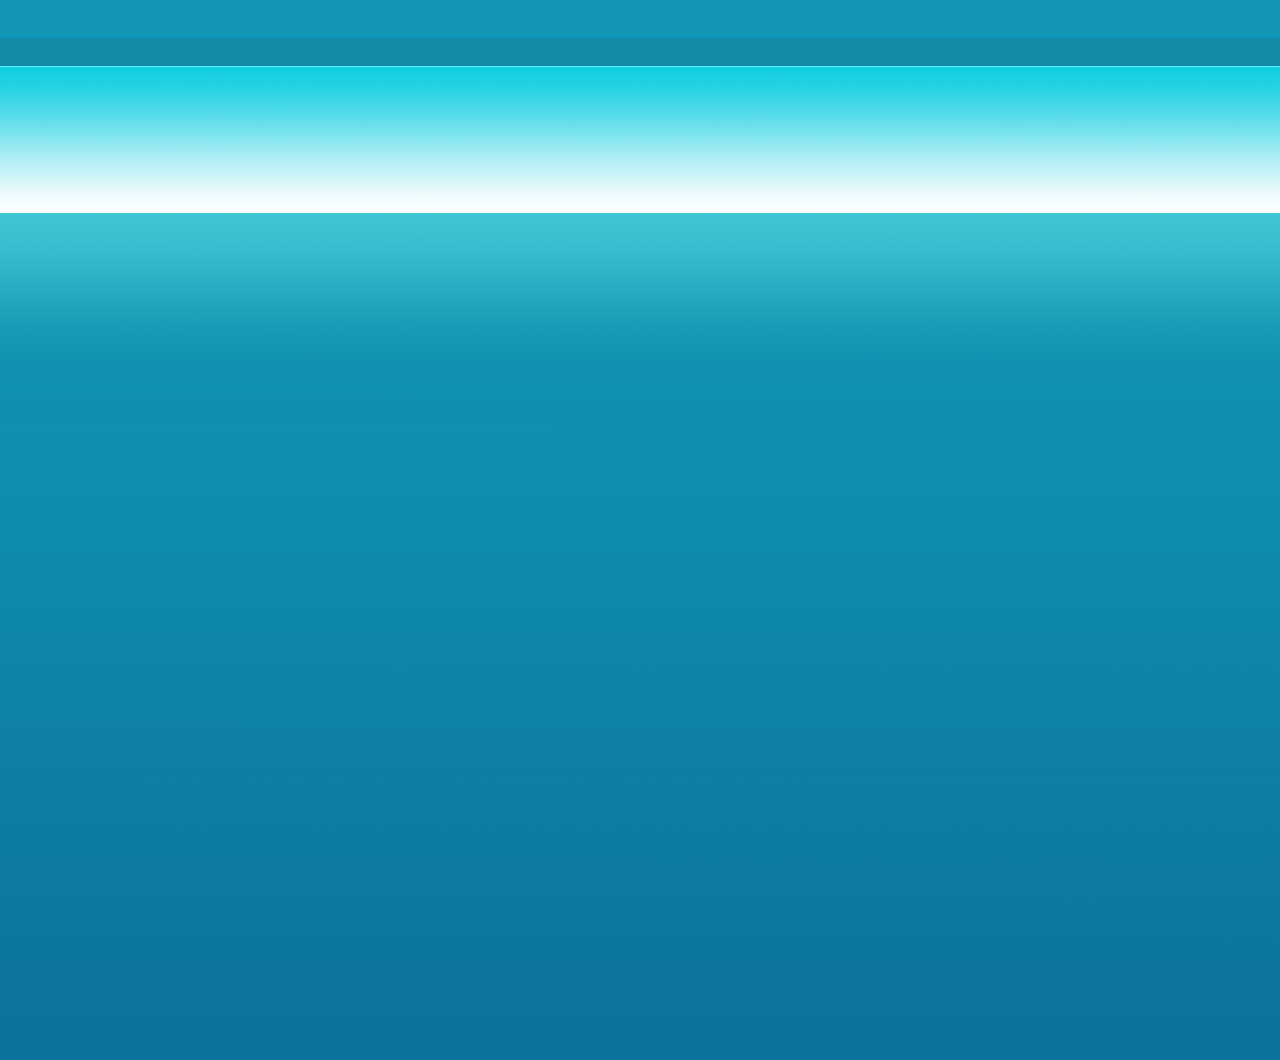
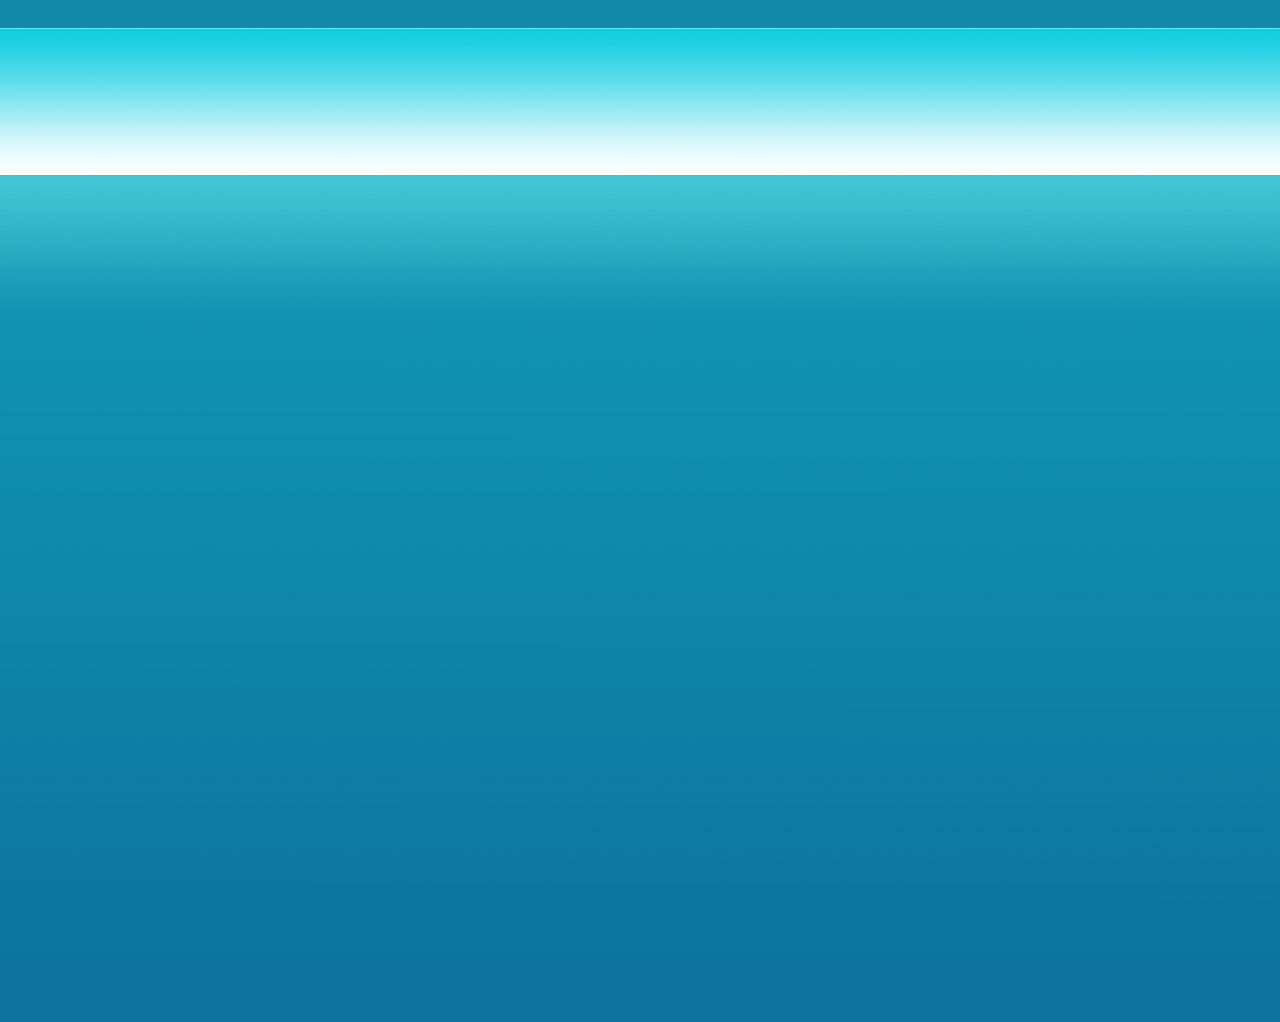
change menu, background, content

Changed region(s): [[0.0, 0.0303, 1.0, 0.2123]]

diff --git a/css/style.css b/css/style.css
@@ -1,15 +1,16 @@
 body {
-    padding-top: 38px;
-    height: 1060px;
+    /*padding-top: 38px;*/
+    height: 1022px;
     font-family: Tahoma, Arial, sans-serif;
     background-image: url(../img/background.jpg);
-    background-attachment: fixed;
+    /*background-attachment: fixed;*/
+
 }
 
 .wrapper {
     background-color: #fff;
-    height: 1025px;
-    margin-left: 140px;
+    height: 988px;
+    margin: 0 auto;
     max-width: 1000px;
     box-shadow: 0px 4px 15px 1px rgba(0,0,0,0.75);
 }
@@ -51,13 +52,6 @@ header {
 
 .countries {
     padding-top: 37px;
-}
-
-ul {
-    display: block;
-    margin: 0;
-    padding: 0;
-    list-style: none;
 }
 
 li {
@@ -112,10 +106,11 @@ li {
     background: #373737;
     background: linear-gradient(to top, #373737, #313131);
     height: 28px;
-    border-bottom: 1px solid black;
-    border-top: 1px solid white;
+    border-bottom: 2px solid black;
     -webkit-box-shadow: 0px 0px 11px 0px rgba(0,0,0,0.80);
     -moz-box-shadow: 0px 0px 11px 0px rgba(0,0,0,0.80);
+    text-align: center;
+
 }
 ul {
     display: block;
@@ -129,61 +124,61 @@ ul:after {
     clear: both;
     float: none;
 }
-ul.menu > li {
+.menu li {
+    /*text-align: center;*/
+    display: block;
+}
+ul.sub_menu > li {
     float: left;
     position: relative;
 }
-ul.menu li:hover {
+ul.sub_menu li:hover,
+ul.sub_menu li:focus {
     background-color: none;
-
 }
-ul.menu > li > a {
+ul.sub_menu > li > a {
     display: block;
+    padding: 5px 0px 5px 0;
+    color: white;
     font-size: 14px;
     font-weight: 500;
     margin-left: 60px;
-    padding: 5px 0 5px 0;
     vertical-align: middle;
     text-decoration: none;
-    color: white;
-}
-ul.menu > li > a:hover {
-    color: #c1c1c1;
 }
 ul.drop_menu {
     display: none;
     position: absolute;
+    left: 25px;;
     width: 150px;
-    top: 29px;
-    left: 50px;
-    background-color: white;
     -webkit-box-shadow: 1px 5px 11px -2px rgba(0,0,0,0.75);
     -moz-box-shadow: 1px 5px 11px -2px rgba(0,0,0,0.75);
     box-shadow: 1px 5px 11px -2px rgba(0,0,0,0.75);
+
 }
+ul.drop_menu > li:first-child {
+    margin-top: 5px;
+}
+ul.sub_menu li:hover {
+    background-color: none;
+}
+
 ul.drop_menu > li {
     display: block;
 }
 ul.drop_menu > li > a {
     display: block;
-    font-size: 14px;
-    font-weight: 500;
     padding: 8px;
     color: white;
     background-color: #303030;
+    font-size: 14px;
+    font-weight: 500;
     text-decoration: none;
 }
-ul.drop_menu > li > a:hover {
-    text-decoration: underline;
-}
-
-ul.menu > li:hover > ul.drop_menu {
+ul.sub_menu > li:hover > ul.drop_menu {
     display: block;
 }
 
-.menu i {
-    font-size: 10px;
-}
 
 h3 {
     font-size: 18px;
@@ -192,10 +187,15 @@ h3 {
 }
 
 p {
-    font-size: 12px;
+    font-size: 14px;
     color: #424c43;
 }
-
+.content {
+    width: 1000px;
+    height: 545px;
+    overflow: hidden;
+    border-bottom: 3px solid black;
+}
 .content p {
     padding: 0 25px 15px 15px;
     line-height: 22px;
@@ -203,42 +203,41 @@ p {
 
 .content h3 {
     padding: 5px 0 5px 0;
+    font-weight: bold;
 }
 
 .info {
+    width: 209px;
     float: left;
+    padding-bottom: 20000px;
+    margin-bottom: -20000px;
     background-color: #edeef0;
-    width: 205px;
     border-right: 1px solid #c7cacf;
-    height: 580px;
 }
-
-.news {
-    float: right;
-    background-color: #edeef0;
-    width: 205px;
-    border-left: 1px solid #c7cacf;
-    height: 580px;
-}
-
 .article {
-    padding: 1px 20px 20px 20px;
+    width: 580px;
     float: left;
-}
+    padding-bottom: 20000px;
+    margin-bottom: -20000px;
+    background-color: #fff;
 
-.content:after {
-    content: ' ';
-    clear: both;
-    display: block;
-    height: 0;
-    visibility: hidden;
+}
+.news {
+    width: 209px;
+    float: left;
+    padding-bottom: 20000px;
+    margin-bottom: -20000px;
+    background-color: #edeef0;
+    border-left: 1px solid #c7cacf;
 }
 
 footer {
-    padding-top: 8px;
+    padding-top: 13px;
 }
 
+
 footer p {
+    margin: 0 auto;
     font-size: 12px;
     font-weight: 500;
     color: white;

diff --git a/index.html b/index.html
@@ -35,7 +35,7 @@
         <img src="img/photo.jpg" alt="photo">
     </div>
     <div class="menu">
-        <ul class="menu">
+        <ul class="sub_menu">
             <li><a href="#">Главная</a></li>
             <li><a href="#">Путешествие <i>&#9660;</i></a>
                 <ul class="drop_menu">
@@ -87,14 +87,13 @@
                 dolor sit amet Lorem ipsum dolor sit amet Lorem ipsum dolor
                 sit amet Lorem ipsum dolor sit amet Lorem ipsum dolor sit amet
                 Lorem ipsum dolor sit amet Lorem ipsum dolor sit amet Lorem
-                ipsum dolor sit amet</p>
+                ipsum dolor sit amet Lorem ipsum dolor sit amet Lorem ipsum dolor sit amet </p>
         </div>
     </div>
 </div>
 <footer>
-    <p> Copyright(C) asia-holidays.com 2010</p>
+    <p>Copyright(C) asia-holidays.com 2010</p>
 </footer>
 
-</div>
 </body>
 </html>
